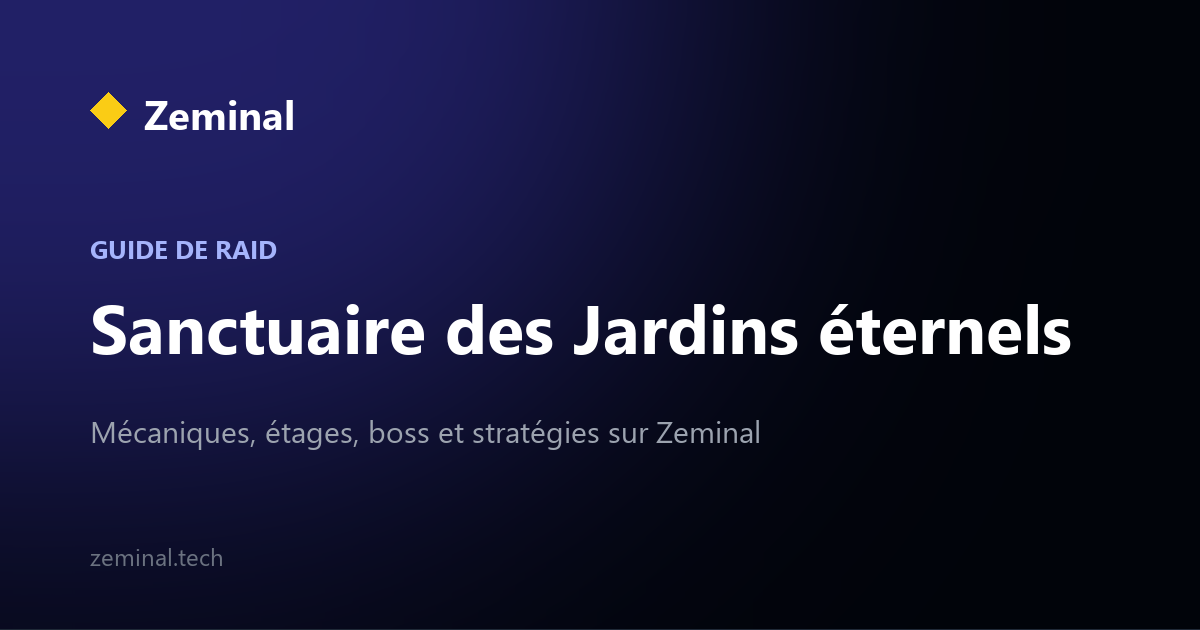
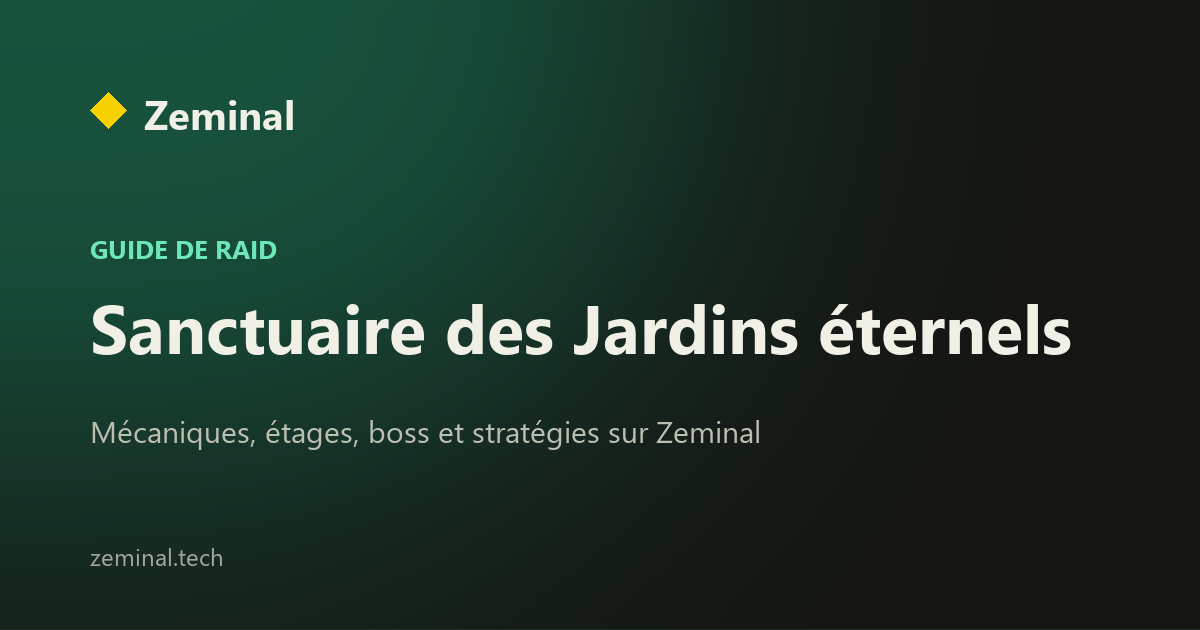
feat: changelog v1.5.0, images OG au nouveau thème, page 404 raid, alerte feedback admin
- ChangelogController : entrée v1.5.0 documentant la refonte visuelle.
- generate_og_banners.py : couleurs codées en dur alignées sur le
  nouveau thème (accent émeraude au lieu d'indigo froid), bannières
  OG régénérées.
- RaidController : 404 générique remplacée par une page contextualisée
  ("Ce raid n'existe plus") sur show()/participants(), factorisée dans
  raidNotFound(). error404.html.twig converti sur ui.link_button() au
  passage (mêmes boutons "à la main" que le fix guild/show précédent).
- User::__toString() ajouté — corrige un plantage EasyAdmin ("An
  internal error occurred") à l'ouverture du détail d'un feedback,
  seul endroit de l'admin à afficher une association directe vers User.
- Dashboard admin : bannière d'alerte quand des feedbacks sont au
  statut "Ouvert", basée sur FeedbackRepository::countOpen() plutôt
  qu'un système lu/non-lu séparé.

diff --git a/src/Controller/ChangelogController.php b/src/Controller/ChangelogController.php
@@ -13,9 +13,19 @@ class ChangelogController extends AbstractController
     {
         $entries = [
             [
+                'version' => '1.5.0',
+                'date'    => '3 juillet 2026',
+                'latest'  => true,
+                'changes' => [
+                    ['type' => 'new',  'text' => 'Nouvelle identité visuelle inspirée de l\'univers Dofus — accent émeraude, boutons, badges et alertes translucides au lieu des aplats pleins'],
+                    ['type' => 'impr', 'text' => 'Boutons et cards harmonisés sur un même composant partagé dans toutes les pages du site'],
+                    ['type' => 'fix',  'text' => 'Curseur "pointeur" manquant sur les boutons'],
+                ],
+            ],
+            [
                 'version' => '1.4.0',
                 'date'    => '29 juin 2026',
-                'latest'  => true,
+                'latest'  => false,
                 'changes' => [
                     ['type' => 'new',  'text' => 'Système de feedback intégré — signalez un bug ou proposez une suggestion depuis le menu avatar ou le footer'],
                     ['type' => 'new',  'text' => 'Page de mises à jour (vous y êtes !)'],

diff --git a/src/Controller/RaidController.php b/src/Controller/RaidController.php
@@ -137,7 +137,7 @@ class RaidController extends AbstractController
     {
         $raid = $raidRepo->findWithParticipants($id);
         if (!$raid) {
-            throw $this->createNotFoundException('Raid introuvable.');
+            return $this->raidNotFound();
         }
 
         if ($r = $this->checkRaidAccess($raid)) return $r;
@@ -166,7 +166,7 @@ class RaidController extends AbstractController
     {
         $raid = $raidRepo->findWithParticipants($id);
         if (!$raid) {
-            throw $this->createNotFoundException('Raid introuvable.');
+            return $this->raidNotFound();
         }
 
         if ($r = $this->checkRaidAccess($raid)) return $r;
@@ -177,6 +177,11 @@ class RaidController extends AbstractController
         $data = $this->raidService->buildShowData($raid, $this->getUser());
 
         return $this->render('raid/show.html.twig', ['raid' => $raid] + $data);
+    }
+
+    private function raidNotFound(): Response
+    {
+        return $this->render('raid/not_found.html.twig', [], new Response('', 404));
     }
 
     private function checkRaidAccess(Raid $raid): ?Response

diff --git a/src/Controller/Admin/DashboardController.php b/src/Controller/Admin/DashboardController.php
@@ -2,6 +2,7 @@
 
 namespace App\Controller\Admin;
 
+use App\Repository\FeedbackRepository;
 use EasyCorp\Bundle\EasyAdminBundle\Attribute\AdminDashboard;
 use EasyCorp\Bundle\EasyAdminBundle\Config\Dashboard;
 use EasyCorp\Bundle\EasyAdminBundle\Config\MenuItem;
@@ -11,9 +12,13 @@ use Symfony\Component\HttpFoundation\Response;
 #[AdminDashboard(routePath: '/admin', routeName: 'admin_dashboard')]
 class DashboardController extends AbstractDashboardController
 {
+    public function __construct(private readonly FeedbackRepository $feedbackRepo) {}
+
     public function index(): Response
     {
-        return $this->render('admin/dashboard.html.twig');
+        return $this->render('admin/dashboard.html.twig', [
+            'openFeedbackCount' => $this->feedbackRepo->countOpen(),
+        ]);
     }
 
     public function configureDashboard(): Dashboard

diff --git a/src/Repository/FeedbackRepository.php b/src/Repository/FeedbackRepository.php
@@ -3,6 +3,7 @@
 namespace App\Repository;
 
 use App\Entity\Feedback;
+use App\Entity\FeedbackStatus;
 use Doctrine\Bundle\DoctrineBundle\Repository\ServiceEntityRepository;
 use Doctrine\Persistence\ManagerRegistry;
 
@@ -14,5 +15,15 @@ class FeedbackRepository extends ServiceEntityRepository
     public function __construct(ManagerRegistry $registry)
     {
         parent::__construct($registry, Feedback::class);
+    }
+
+    public function countOpen(): int
+    {
+        return (int) $this->createQueryBuilder('f')
+            ->select('COUNT(f.id)')
+            ->andWhere('f.status = :status')
+            ->setParameter('status', FeedbackStatus::Open)
+            ->getQuery()
+            ->getSingleScalarResult();
     }
 }

diff --git a/scripts/generate_og_banners.py b/scripts/generate_og_banners.py
@@ -10,14 +10,14 @@ W, H = 1200, 630
 FONT_DIR = "C:/Windows/Fonts"
 OUT_DIR = os.path.join(os.path.dirname(__file__), "..", "public", "og")
 
-BG = (3, 7, 18)          # gray-950
-INDIGO_600 = (79, 70, 229)
-INDIGO_400 = (129, 140, 248)
-INDIGO_300 = (165, 180, 252)
-YELLOW_400 = (250, 204, 21)
-WHITE = (255, 255, 255)
-GRAY_400 = (156, 163, 175)
-GRAY_500 = (107, 114, 128)
+BG = (35, 37, 32)         # gray-950 (thème Dofus)
+INDIGO_600 = (5, 150, 105)   # accent = émeraude désormais
+INDIGO_400 = (52, 211, 153)
+INDIGO_300 = (110, 231, 183)
+YELLOW_400 = (247, 208, 1)
+WHITE = (240, 240, 230)
+GRAY_400 = (188, 190, 176)
+GRAY_500 = (163, 166, 152)
 
 
 def font(name, size):

diff --git a/src/Entity/User.php b/src/Entity/User.php
@@ -112,4 +112,9 @@ class User implements UserInterface, PasswordAuthenticatedUserInterface
     public function getCreatedAt(): ?\DateTimeImmutable { return $this->createdAt; }
 
     public function eraseCredentials(): void {}
+
+    public function __toString(): string
+    {
+        return $this->username ?? $this->email ?? ('User #' . $this->id);
+    }
 }
